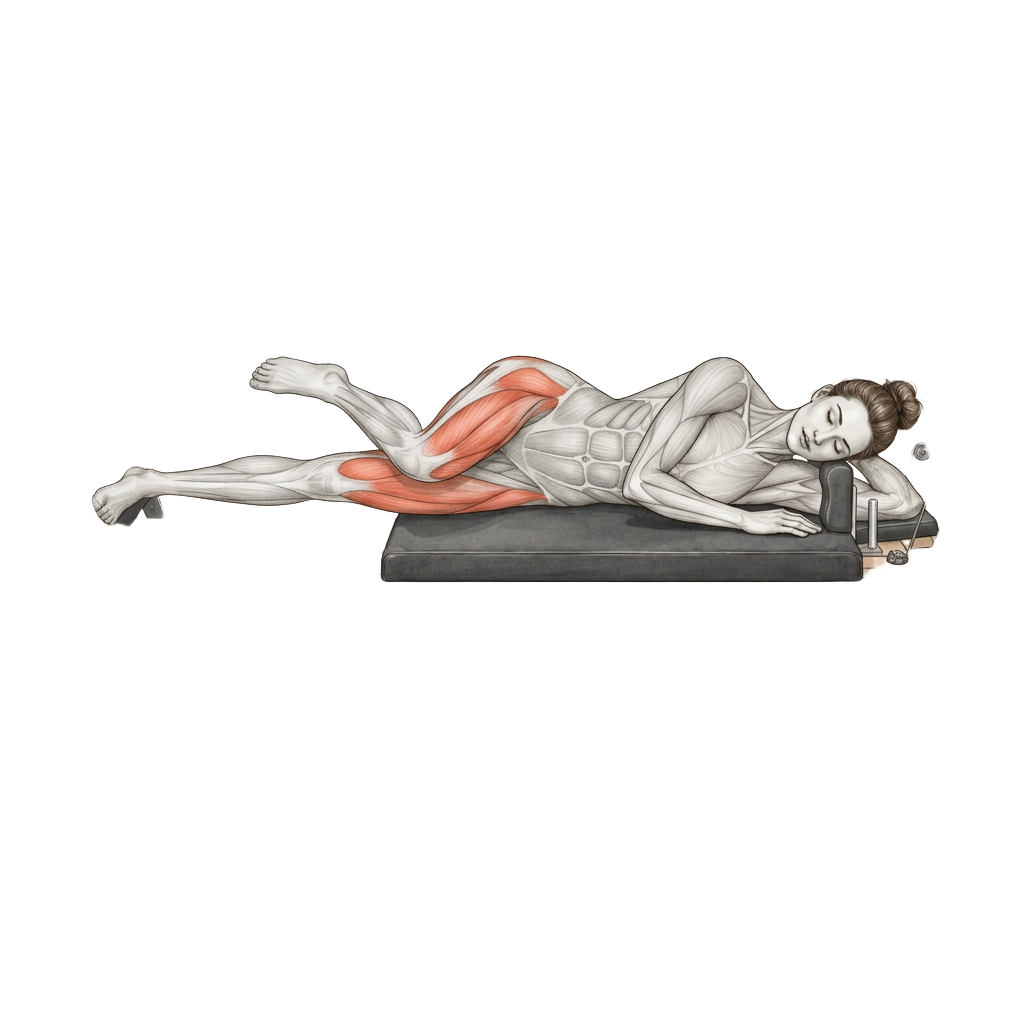
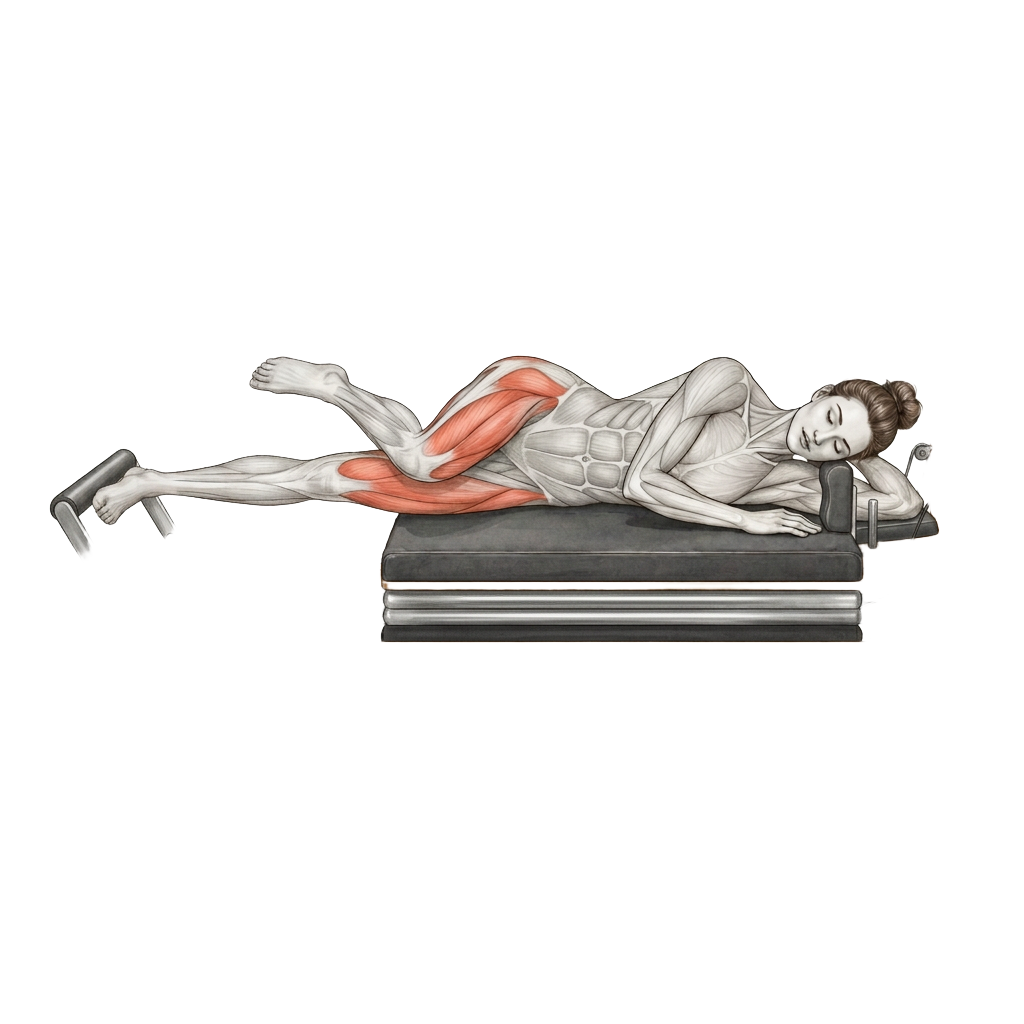
Changes

diff --git a/src/lib/corrected-exercise-art.ts b/src/lib/corrected-exercise-art.ts
@@ -49,6 +49,10 @@ import overheadTriceps from "@/assets/movement/reformer/overhead-triceps.png";
 import parallelFootwork from "@/assets/movement/reformer/parallel-heel-footwork.png";
 import frogPress from "@/assets/movement/reformer/frog-press.png";
 import scooter from "@/assets/movement/reformer/scooter.png";
+import sideLyingPress from "@/assets/movement/reformer/side-lying-press.png";
+import legPressDown from "@/assets/movement/reformer/feet-in-straps-press-down.png";
+import supineArms from "@/assets/movement/reformer/supine-arm-pull-down.png";
+import sideArm from "@/assets/movement/reformer/kneeling-side-arm-raise.png";
 
 const normalize = (name: string) => name.toLowerCase().replace(/[^a-z0-9]+/g, " ").trim();
 
@@ -62,6 +66,10 @@ const correctedArt: Record<string, string> = {
   "reformer footwork": parallelFootwork,
   "reformer frog press": frogPress,
   "reformer scooter": scooter,
+  "reformer side lying leg press": sideLyingPress,
+  "reformer feet in straps leg press down": legPressDown,
+  "reformer supine arm pull down": supineArms,
+  "reformer kneeling side arm raise": sideArm,
   "push up": pushUp,
   "dumbbell bench press": dbBench,
   "barbell bent over row": barbellRow,

diff --git a/src/lib/__tests__/partner-program.test.ts b/src/lib/__tests__/partner-program.test.ts
@@ -84,6 +84,25 @@ describe("partner program structure", () => {
     }
   });
 
+  it("never repeats exercise IDs in consecutive lessons of the same body focus", () => {
+    for (const focus of ["Upper", "Lower"] as const) {
+      const lessons = sessions.filter(s => s.focus === focus);
+      for (let i = 1; i < lessons.length; i++) {
+        const previous = new Set(lessons[i - 1].stations.map(st => st.id));
+        expect(lessons[i].stations.filter(st => previous.has(st.id)).map(st => st.id),
+          `${lessons[i - 1].id} → ${lessons[i].id}`).toEqual([]);
+      }
+    }
+  });
+
+  it("does not repeat calf raises between the first two lower lessons", () => {
+    const first = getPartnerSession("w1-s2");
+    const next = getPartnerSession("w2-s1");
+    expect(first).toBeDefined();
+    expect(next).toBeDefined();
+    expect([first, next].filter(s => s?.stations.some(st => st.id === "reformer-calf-raise"))).toHaveLength(1);
+  });
+
   it("shares one barbell sensibly: at most 2 barbell stations and 1 rack lift per session", () => {
     for (const s of sessions) {
       const bars = barbellStations(s);

diff --git a/AGENTS.md b/AGENTS.md
@@ -217,6 +217,7 @@ This is a starting point. Add your own conventions, style, and rules as you figu
 - Class mode uses a height-aware landscape layout with the active exercise, both heart rates and controls kept visible; secondary details scroll independently because TV mirroring retains the phone viewport.
 - Resolve corrected exercise illustrations through the shared exact-name registry before database or generic matches, so equipment-specific anatomy artwork stays consistent across previews and classes.
 - Author distinct partner-session block combinations explicitly, preserving existing session and exercise identities for logged progression; never relabel one movement or its artwork as a different exercise merely to create variety.
+- Validate partner variety by comparing all station IDs in consecutive same-focus lessons across week boundaries, not just whole-block signatures, so a new combination cannot disguise immediate repeats.
 
 <!-- LOVABLE:BEGIN -->
 - Keep homepage illustration assets in a shared landing artwork module, separate from global icon rendering, so artwork changes cannot replace functional icons elsewhere.
